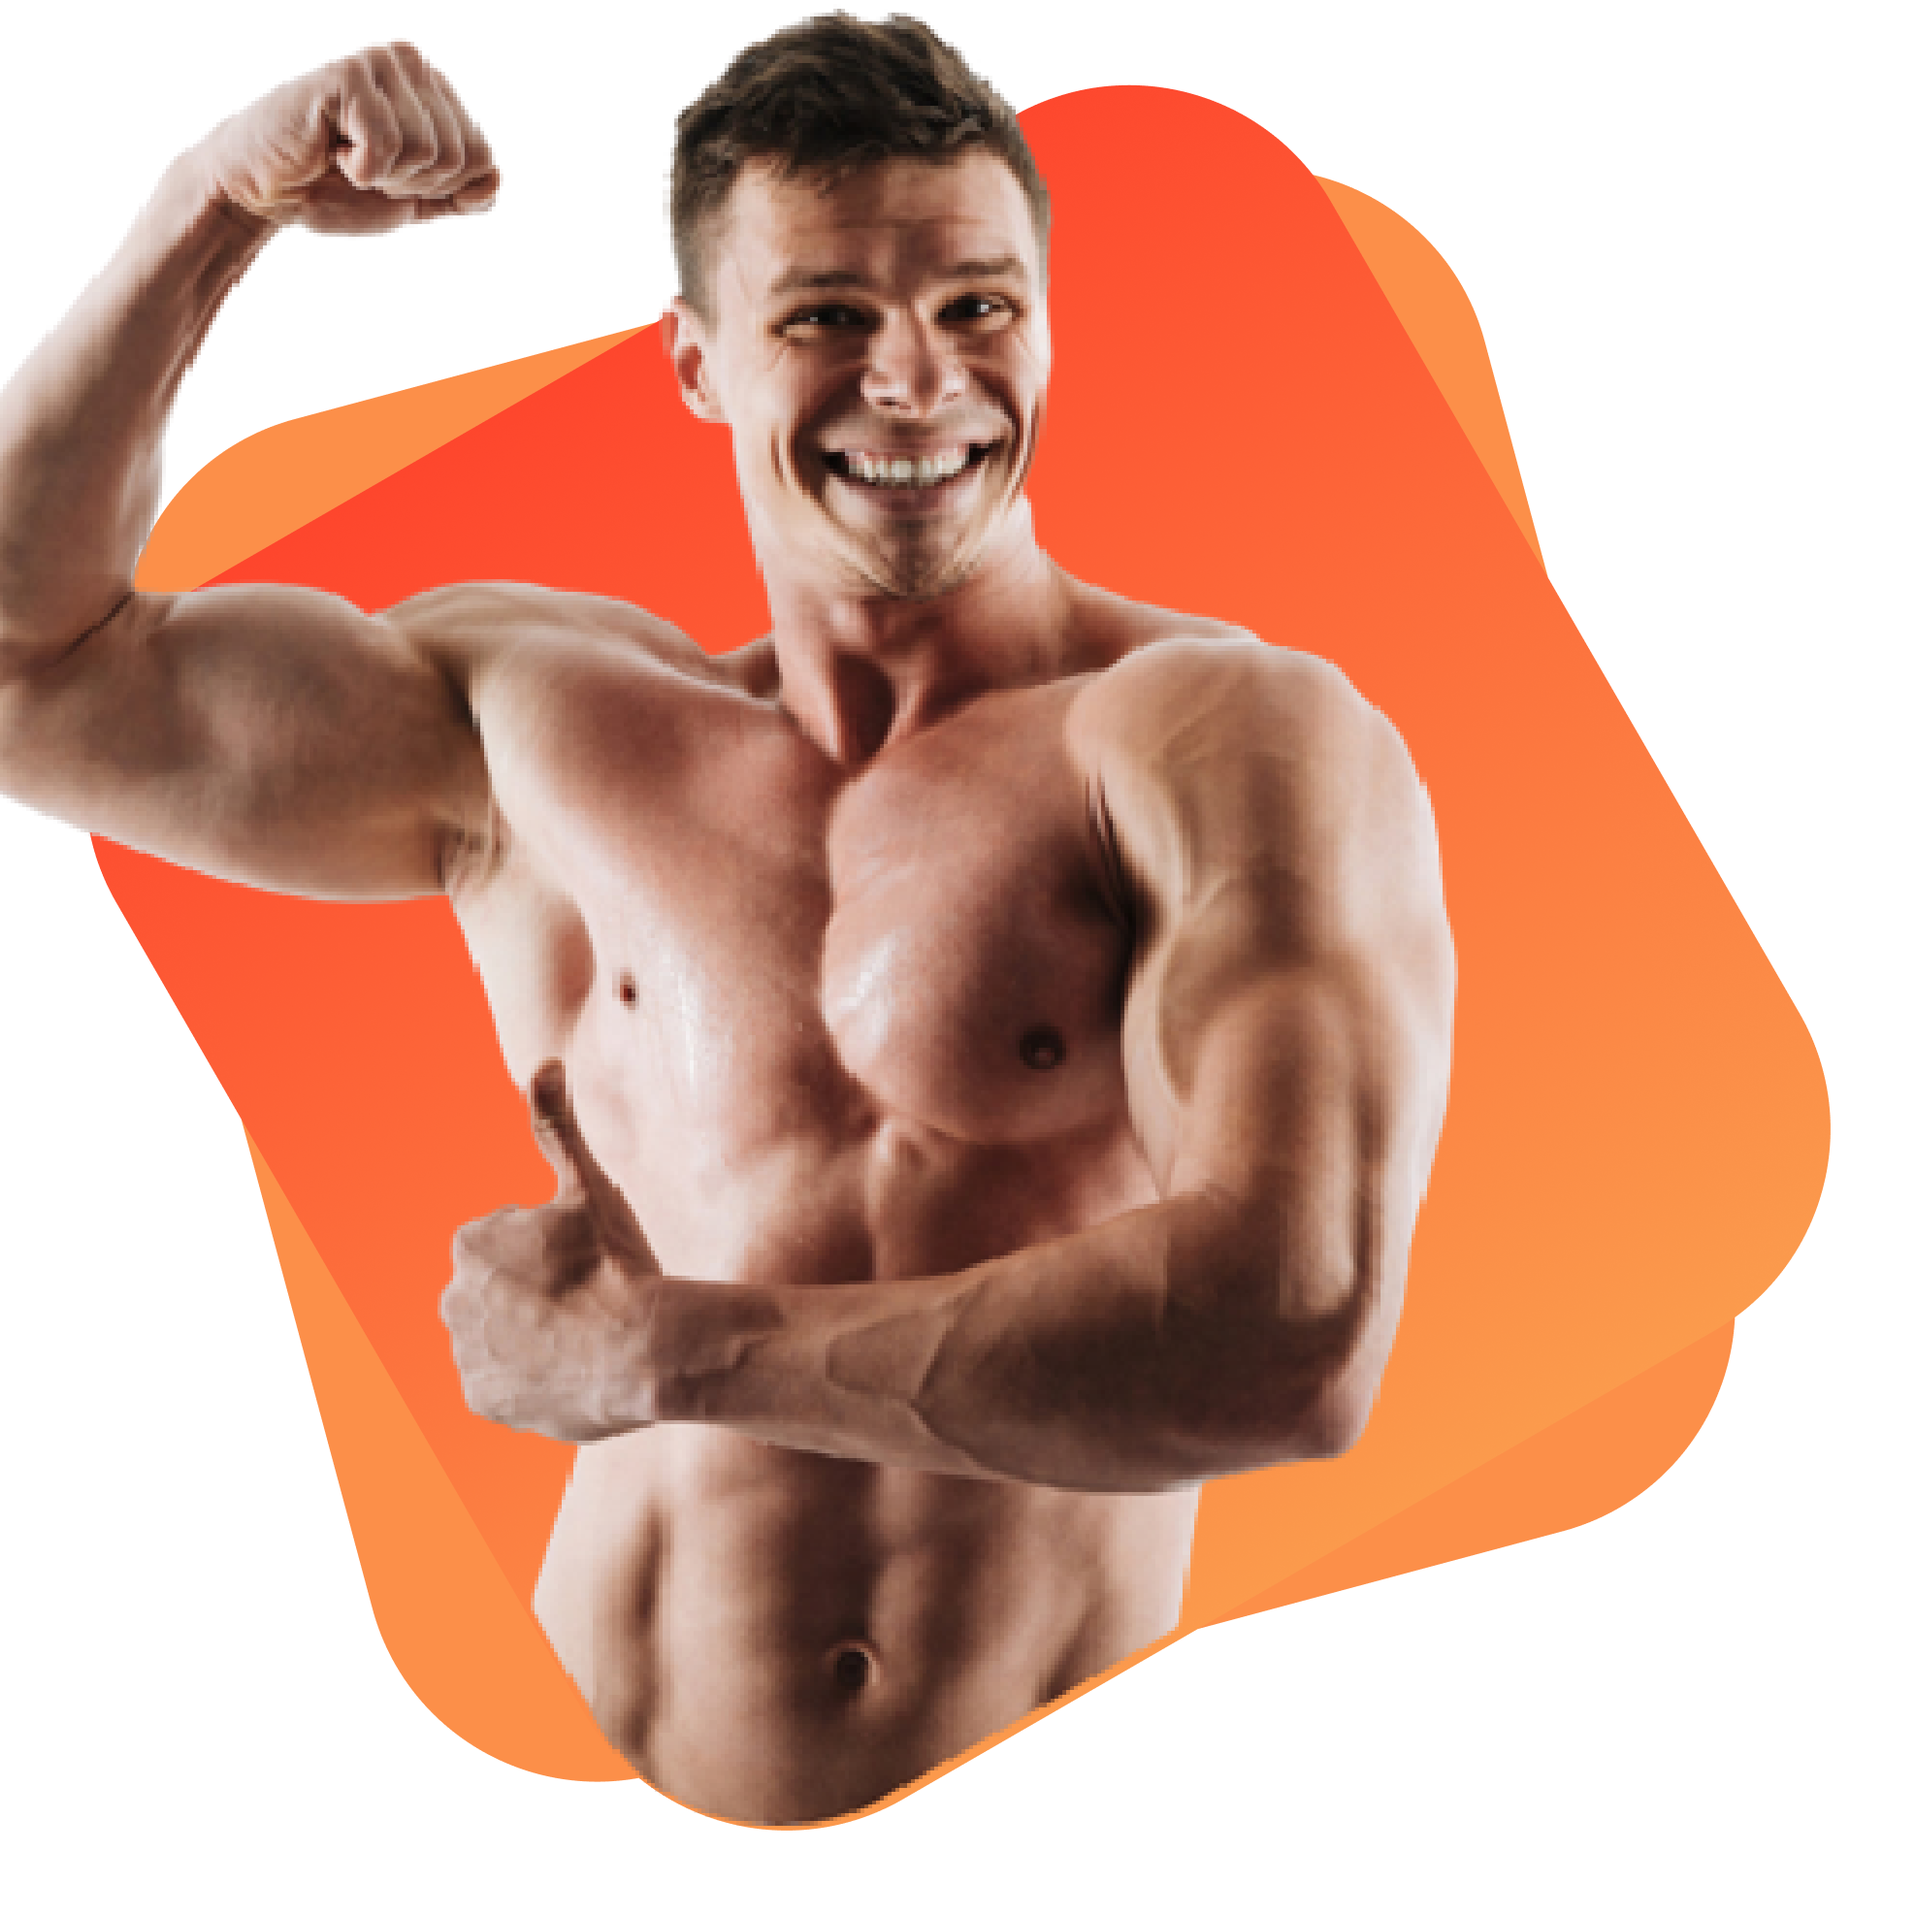
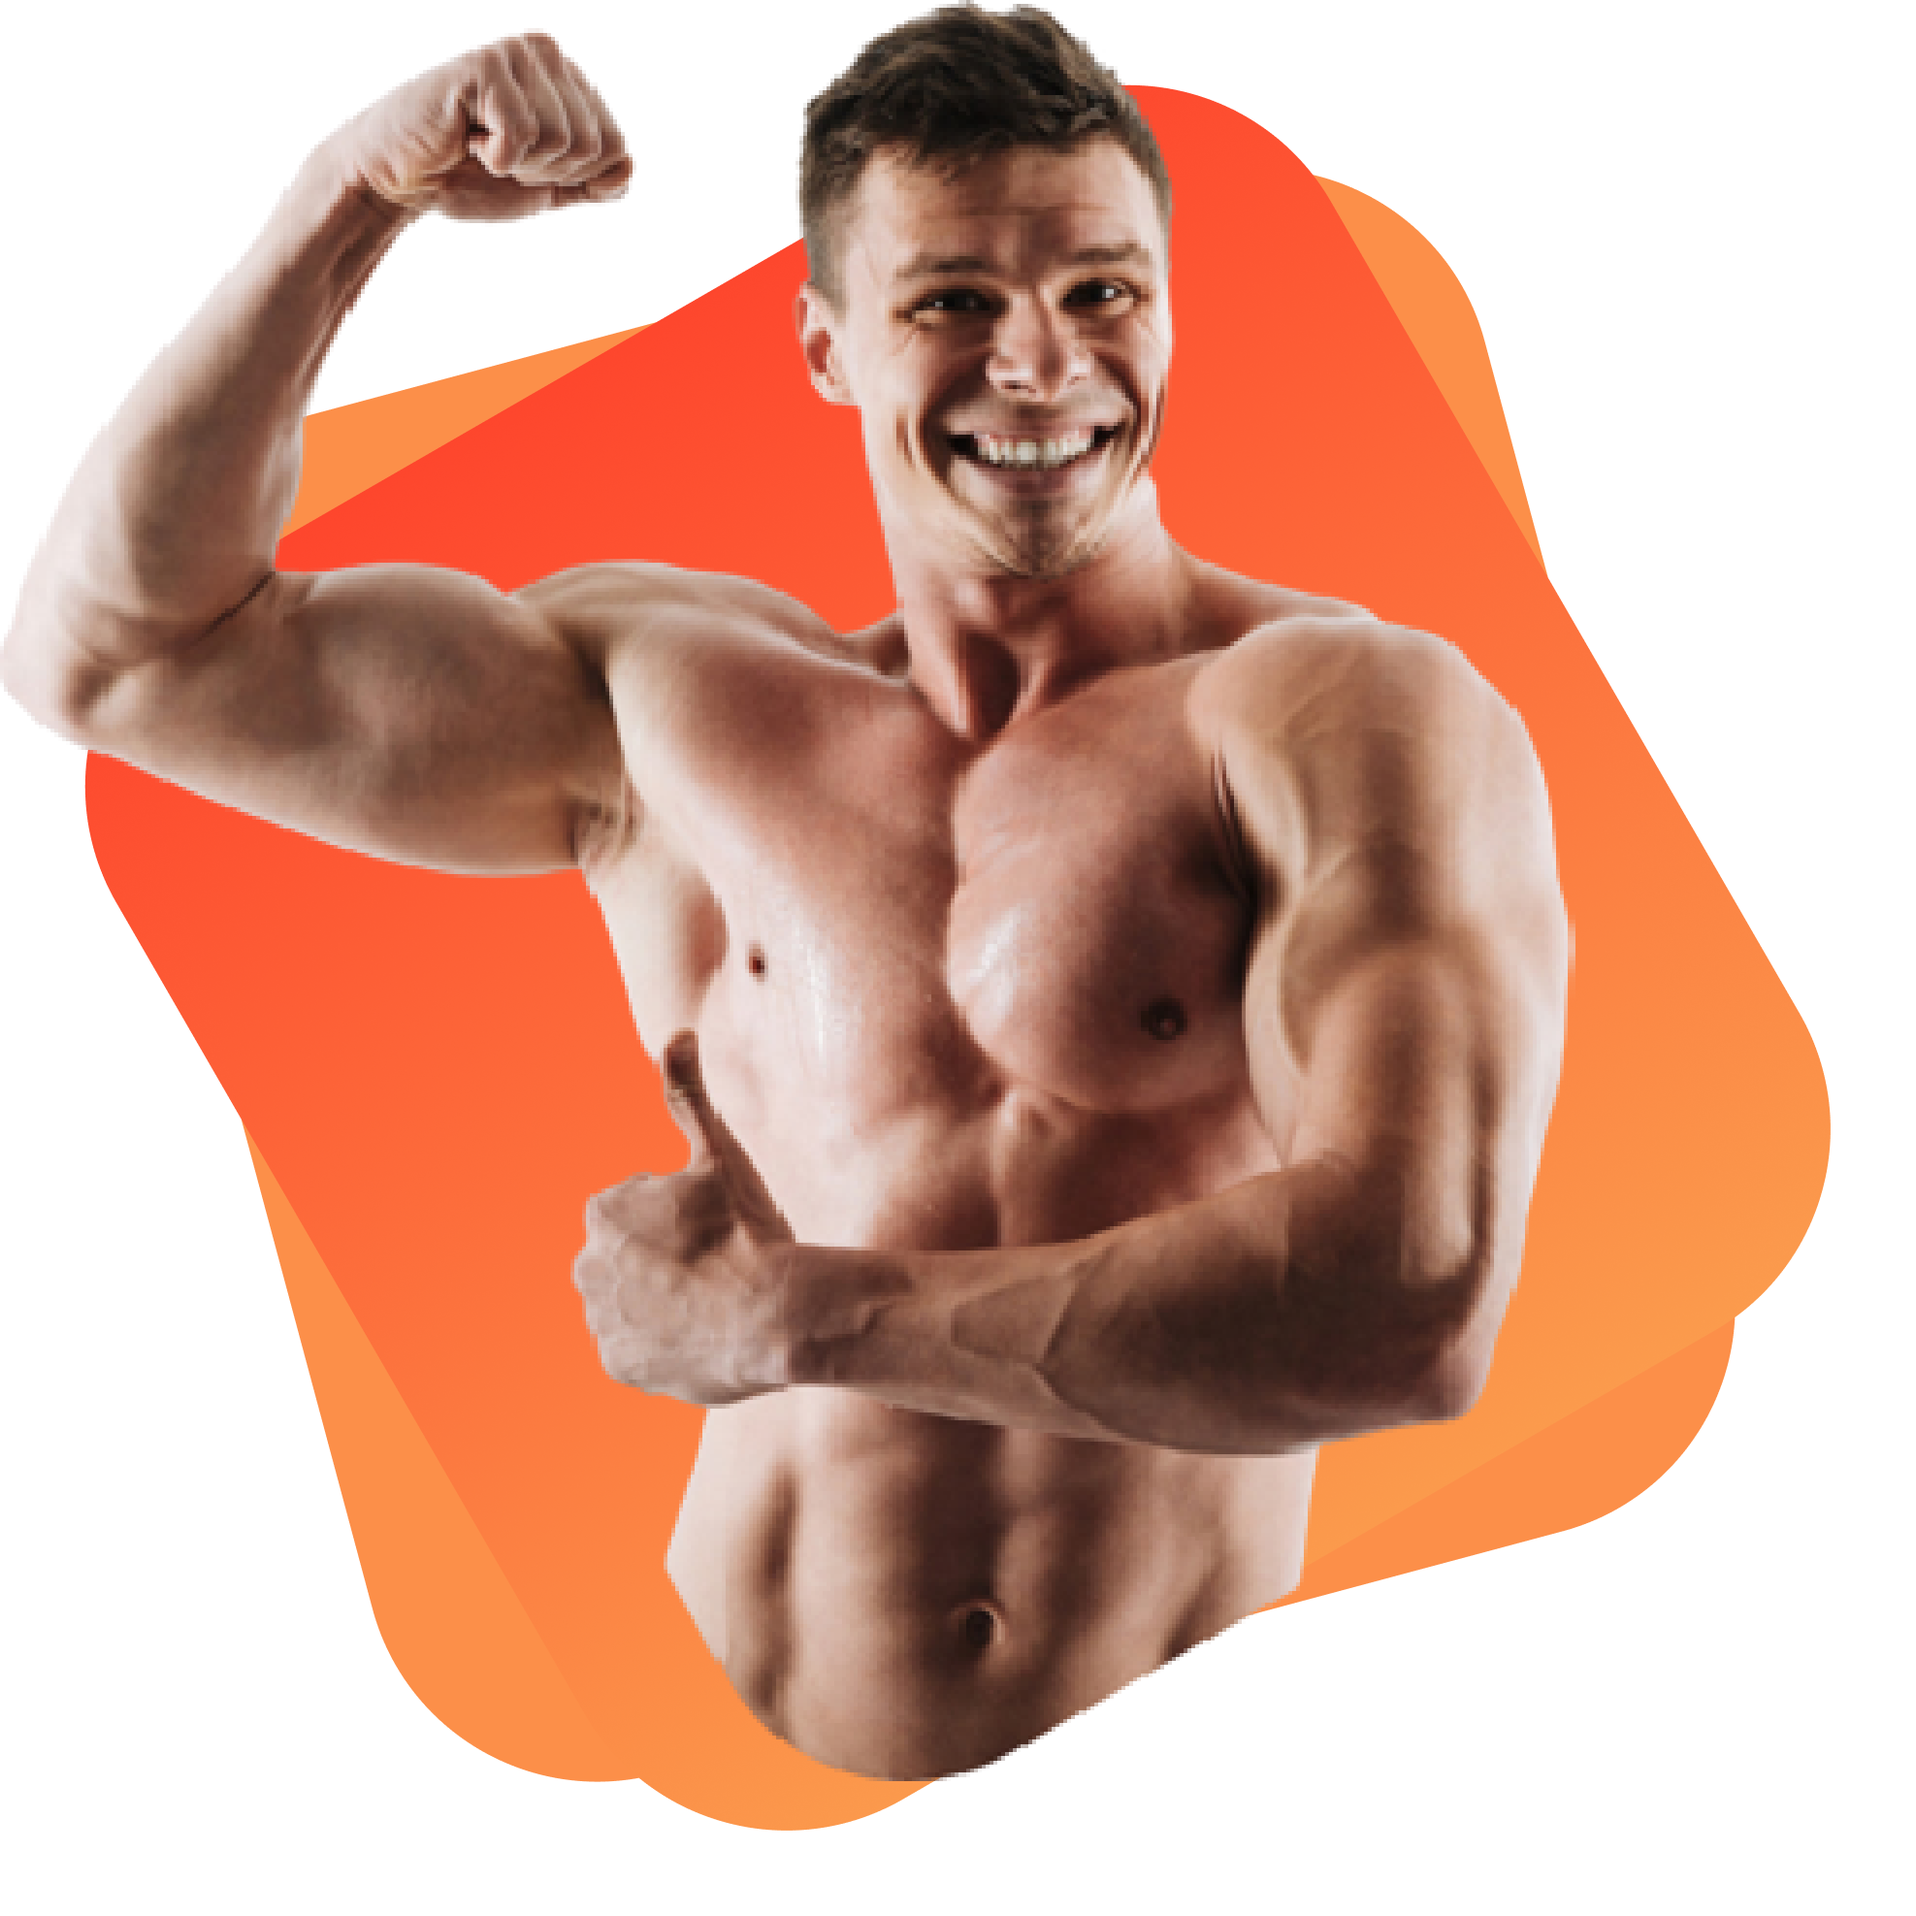
now pleaase

diff --git a/index.html b/index.html
@@ -14,7 +14,7 @@
         <div class="half-width top-space">
             <h1><span class="color">Skip</span><span class="color-two">The Diet,<br> Just Eat Healthy <br> With Food
                     Network</span></h1>
-            <p>Imagine you don't need a diet because we provide healthy and delicious food for you!</p>
+            <p class="int-text">Imagine you don't need a diet because we provide healthy and delicious food for you!</p>
             <a class="link-button" target="_blank" href="X">Order Food</a>
         </div>
         <div class="half-width top-space-img">
@@ -22,9 +22,9 @@
         </div>
 
     </section>
-    <section class="flexible-part-one top-banner">
+    <section class="flexible-part-two top-banner">
         <div class="half-width">
-            <img src="images/female/Person Image.png" alt="">
+            <img class="image-sizing" src="images/female/Person Image.png" alt="">
 
         </div>
         <div class="half-width new-one">
@@ -36,6 +36,10 @@
             <a class="link-button" target="_blank" href="XYZ">Contact me</a>
         </div>
     </section>
+    <h2 class="middle-point">My recipies </h2>
+    <p class="paragraph-three">Lorem ipsum dolor sit amet consectetur adipisicing elit. Rem consectetur optio ex quae.
+        Excepturi necessitatibus
+        esse nesciunt, accusantium unde nisi sit, quos dolores ut aliquam quisquam ipsa omnis voluptates dicta.</p>
 
 </body>
 

diff --git a/style.css b/style.css
@@ -29,6 +29,7 @@ h1 {
 .top-space {
     padding-top: 70px;
     margin-left: 50px;
+    padding-left: 60px;
 }
 
 .top-space-img {
@@ -38,6 +39,12 @@ h1 {
 p {
     font-size: 29px;
     color: rgb(122, 120, 120);
+    padding-bottom: 40px;
+}
+
+.flexible-part-two {
+    display: flex;
+    padding-bottom: 20px;
 }
 
 .link-button {
@@ -55,14 +62,37 @@ h2 {
 
 .new-one {
     padding-left: 70px;
+    padding-top: 150px;
 }
 
 .text-one {
-    font-size: 18px;
+    font-size: 22px;
     padding-right: 210px;
+    padding-bottom: 60px;
 }
 
 .top-banner {
     background-image: url(images/shapes/7.png);
     background-repeat: no-repeat;
+    background-size: contain;
+}
+
+.image-sizing {
+    max-width: 50%;
+    max-height: 80%;
+    padding-left: 150px;
+    padding-top: 100px;
+}
+
+.middle-point {
+    text-align: center;
+    color: rgb(94, 92, 92);
+    font-size: 50px;
+}
+
+.paragraph-three {
+    text-align: center;
+    padding-left: 400px;
+    padding-right: 400px;
+    font-size: 20px;
 }
